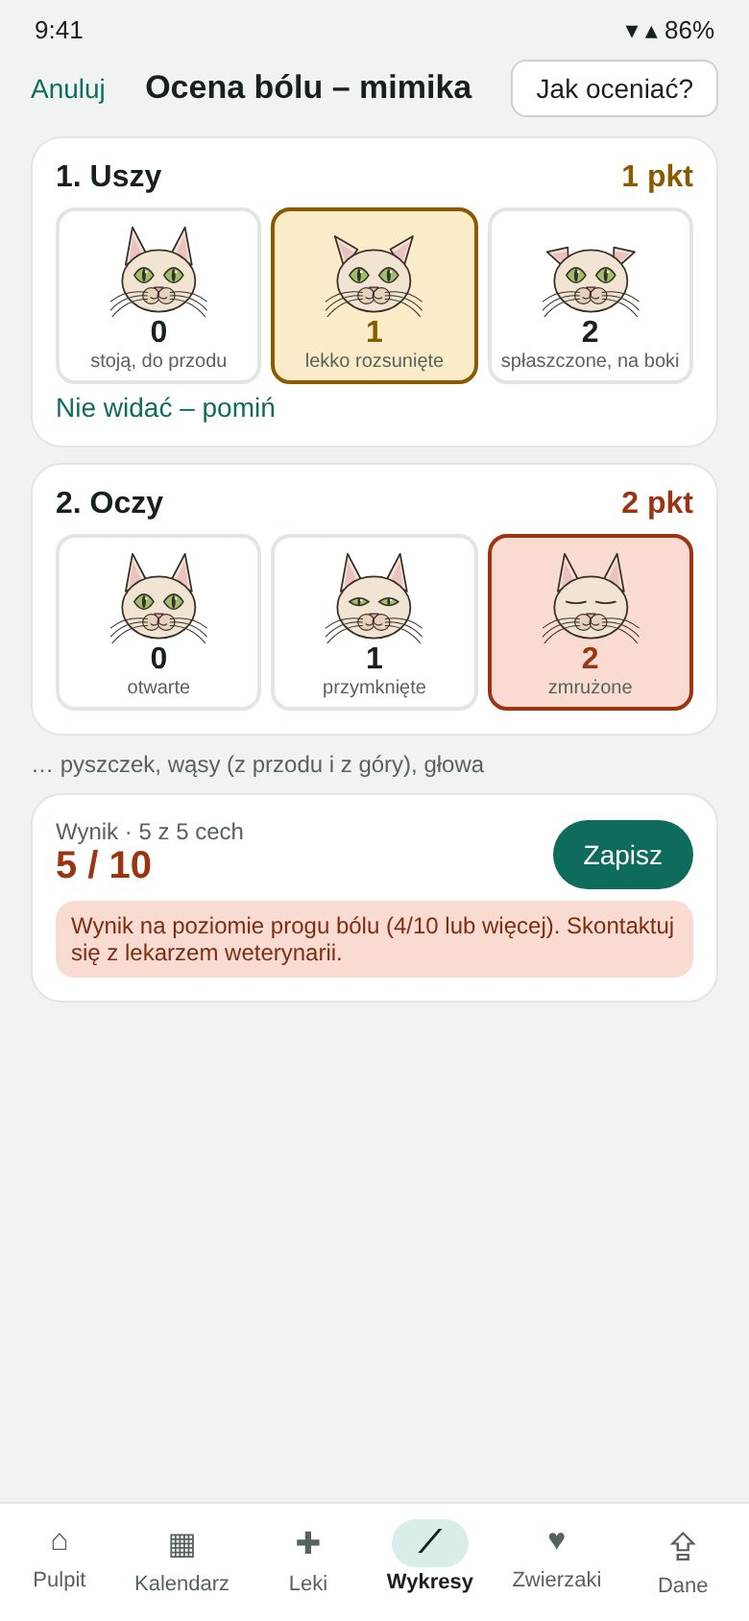
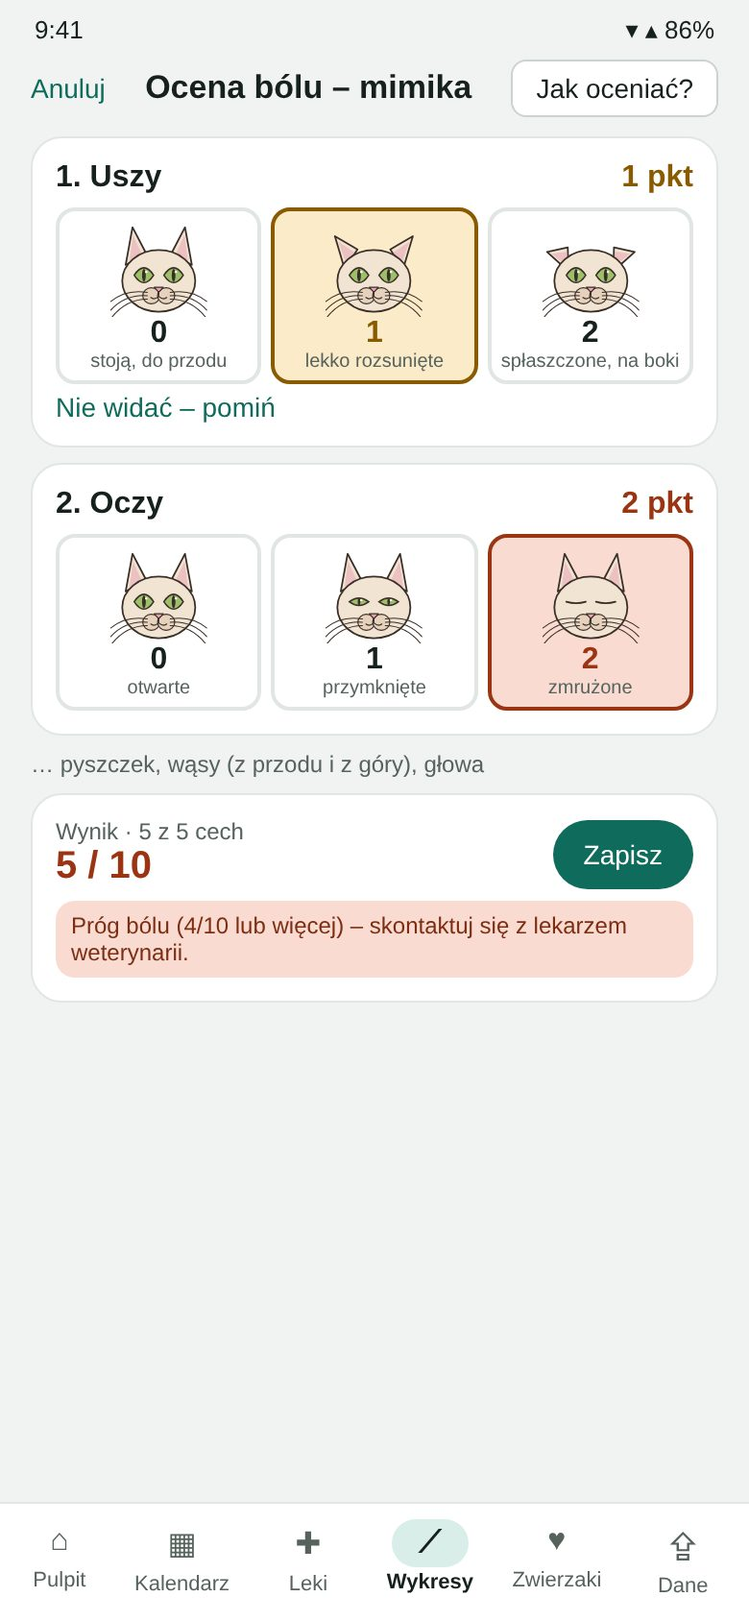
Zmiany 0.21.1
Claude-Session: https://claude.ai/code/session_01Lz8gJxS2uki7r8oLhaRRUg

Changed region(s): [[0.0923, 0.5545, 0.8923, 0.6161]]

diff --git a/zmiany/index.html b/zmiany/index.html
@@ -8,5 +8,5 @@ main{max-width:760px;margin:0 auto;padding:clamp(28px,5vw,56px) max(5vw,18px) 64
 h1{font-size:clamp(30px,5vw,40px);line-height:1.1;margin:8px 0 18px}.ver{border-top:1px solid var(--line);padding:14px 0 4px}
 .ver h2{font-size:20px;margin:0 0 4px}.ver h2 span{font-size:15px;font-weight:400;color:var(--mut);margin-left:8px}ul{padding-left:22px;margin:6px 0}li{margin:4px 0}</style></head><body><main>
 <p><a href="../">← KitkuApp</a></p><h1>Historia zmian</h1>
-<section class="ver"><h2>0.21.0 <span>25.11.2026</span></h2><ul><li>Nowy pomiar domowy dla kotów: „Ocena bólu (mimika)” według Feline Grimace Scale – 5 cech pyszczka (uszy, oczy, pyszczek, wąsy, głowa) z ilustracjami 0 / 1 / 2.</li><li>Cechę, której nie widać, można pominąć (najwyżej 2) – wynik przeliczy się do skali 0–10.</li><li>Wynik trafia na wykres; od 4/10 jest poza normą, a aplikacja przypomina o kontakcie z lekarzem weterynarii.</li></ul></section><section class="ver"><h2>0.20.2 <span>25.11.2026</span></h2><ul><li>O aplikacji: pod linkiem do listy zmian jest link do podręcznika użytkownika.</li></ul></section><section class="ver"><h2>0.20.1 <span>24.11.2026</span></h2><ul><li>Wykresy: „Dodaj pomiar” jest teraz nad listą wcześniejszych pomiarów.</li><li>Pomiary domowe: usunięte ciśnienie rozkurczowe (u kotów ocenia się głównie skurczowe). Wartości rozkurczowe z wypisów nadal są na wykresach.</li></ul></section><section class="ver"><h2>0.20.0 <span>24.11.2026</span></h2><ul><li>Wykresy na osi czasu: punkty w odstępach zgodnych z datami, na osi lata (po przybliżeniu półrocza i kwartały).</li><li>Domyślnie widać ostatnie 3 lata; gdy pomiary obejmują krótszy okres – wszystkie.</li><li>Przeciągnięcie wykresu w lewo lub w prawo przesuwa widok w czasie; strzałki ‹ › w rogach pokazują, że są starsze lub nowsze pomiary.</li><li>Suwak pod wykresem przybliża od „wszystko” do 3 miesięcy; „↺ Domyślny widok” wraca do 3 lat.</li></ul></section><section class="ver"><h2>0.19.2 <span>24.11.2026</span></h2><ul><li>Wykresy: parametry morfologii w kolejności jak na wydruku z analizatora (WBC, BAS%, BAS, NEU%, NEU … PLT, MPV, PDW, PCT), pozostałe pod nimi alfabetycznie.</li></ul></section><section class="ver"><h2>0.19.1 <span>24.11.2026</span></h2><ul><li>Wykresy: ten sam wynik zapisany w dwóch dokumentach z jednego dnia pokazuje się raz (bez nakładających się etykiet).</li><li>Parametry podawane w % (np. NEU %) mają własny wykres, osobno od wartości bezwzględnych.</li><li>Lista parametrów: bez pustych dopisków „też:”.</li></ul></section><section class="ver"><h2>0.19.0 <span>24.11.2026</span></h2><ul><li>Wykresy: wykres od razu pod wyborem zwierzaka. Dotknięcie nazwy parametru otwiera wybór, strzałki ‹ › przechodzą do sąsiednich parametrów z tej samej grupy.</li><li>Pod wykresem skróty: parametry poza normą w ostatnich wynikach i przypięte gwiazdką.</li><li>„Wszystkie parametry” – lista z wyszukiwarką (także po innych nazwach, np. „hematokryt”), pogrupowana jak badania, z ostatnią wartością.</li><li>Ten sam parametr z różnych laboratoriów (np. HCT i Hematokryt, PLT i Płytki krwi) oraz nazwy rozbite przy odczycie PDF trafiają na jeden wykres.</li></ul></section><section class="ver"><h2>0.18.2 <span>24.11.2026</span></h2><ul><li>Profil: „Archiwum diet” i „Historia fizjoterapii” przeniesione pod karty – przycisk dodawania w nagłówku nie łamie się już na wąskich ekranach.</li></ul></section><section class="ver"><h2>0.18.1 <span>23.11.2026</span></h2><ul><li>Poprawka: po przesunięciu profilu na innego zwierzaka „Terminy badań” pokazywały daty poprzednio oglądanego zwierzaka.</li></ul></section><section class="ver"><h2>0.18.0 <span>23.11.2026</span></h2><ul><li>Wizyta z datą w przyszłości wymaga tylko tytułu. Gdy termin minie, jest wyróżniona w historii i na Pulpicie z prośbą o wyniki – „Uzupełnij” albo „Dodaj skan” (skan z tego dnia uzupełni ten wpis).</li><li>Dieta: w profilu tylko trwające diety, zakończone w „Archiwum diet”. „Zakończ dietę” od razu przenosi ją do archiwum.</li><li>Fizjoterapia przeniesiona z kategorii badań do profilu zwierzaka – sekcja pod dietą, z własną historią.</li><li>Przesunięcie profilu w lewo lub w prawo przechodzi do kolejnego zwierzaka.</li><li>Kategorie badań przy dodawaniu wpisu pogrupowane (krew i mocz, obrazowe, wizyty) i zajmują mniej miejsca.</li></ul></section><section class="ver"><h2>0.17.0 <span>23.11.2026</span></h2><ul><li>Ręczny wpis: osobne pola Opis i Zalecenia (zalecenia tworzą przypomnienia), wyniki wpisywane wierszami – z podpowiedzią parametru, jednostką, normą i strzałką poza normą. Badanie z wynikami wymaga co najmniej jednego wyniku. Wyniki trafiają na wykresy i do stanu zdrowia.</li><li>Nowa kategoria: Fizjoterapia (opis zabiegów i zalecenia).</li><li>Stan zdrowia: dotknięcie pozycji otwiera badanie, przy wartościach poza normą widać normę, a zalecenia typu „kontrola za 12 miesięcy” nie są liczone jako problem.</li><li>Wybór zwierzaka ze zdjęciem i kolorem zwierzaka w tle (kalendarz, leki, wykresy, wpisy).</li><li>Leki: sekcja „Historia diet” nad historią leczenia.</li></ul></section><section class="ver"><h2>0.16.0 <span>23.11.2026</span></h2><ul><li>Profil zwierzaka: sekcja „Dieta” (nazwa, od–do lub na stałe, reakcja na dietę). Po zakończeniu dieta przechodzi do historii.</li><li>Wyszukiwanie w historii zwierzaka – w tytułach i opisach wpisów, na bieżąco podczas pisania.</li><li>Historia podzielona na roczniki – kreska z rokiem na granicy lat.</li><li>Po powrocie z otwartego wpisu profil wraca w to samo miejsce historii.</li></ul></section><section class="ver"><h2>0.15.2 <span>23.11.2026</span></h2><ul><li>Lepszy import historii wizyt: opis badania klinicznego zachowuje podział na punkty, zawinięte zdania są sklejane, a wizyty z samymi załącznikami są pomijane.</li><li>Poprawnie odczytywane wyniki, w których wartość jest sklejona z nazwą parametru (np. SAA), wyniki „w toku” są pomijane, a „Wartość” dostaje nazwę badania.</li><li>Interpretacja wyniku przerwana podziałem strony nie gubi ostatniego zdania.</li></ul></section><section class="ver"><h2>0.15.1 <span>23.11.2026</span></h2><ul><li>Nowa ikona aplikacji.</li><li>Zakładka „Dane i ustawienia” – czytelniej rozdzielone sekcje przywracania kopii i wyglądu.</li></ul></section><section class="ver"><h2>0.15.0 <span>22.11.2026</span></h2><ul><li>Normy badania moczu dla kotów i psów, gdy laboratorium ich nie podało: ciężar właściwy, pH, stosunek białko/kreatynina (z rozróżnieniem wartości granicznej i białkomoczu), erytrocyty i leukocyty w osadzie.</li><li>Wyniki opisowe (glukoza, ketony, krew, bilirubina, bakterie, wałeczki, nabłonki, liczne kryształy) oznaczane jako nieprawidłowe, z normą słowną obok. Białko z paska u kota – tylko informacyjnie.</li><li>Nieprawidłowe wyniki moczu trafiają do podsumowania stanu zdrowia.</li></ul></section><section class="ver"><h2>0.14.0 <span>22.11.2026</span></h2><ul><li>Ciemny motyw: przełącznik w zakładce Dane (sekcja „Wygląd”). Domyślnie aplikacja dopasowuje się do ustawień telefonu.</li></ul></section><section class="ver"><h2>0.13.1 <span>22.11.2026</span></h2><ul><li>Lepszy import zeskanowanych kart wizyt: rozpoznawane sekcje „Opis badania”, „Zabiegi” i „Zastosowane leki” mimo ikon przy nagłówkach, a także data wizyty zaznaczona zakreślaczem.</li><li>Tomografia wpisana w zabiegach oznacza wpis kategorią TK.</li></ul></section><section class="ver"><h2>0.13.0 <span>22.11.2026</span></h2><ul><li>Profil zwierzaka: nowa sekcja „Stan zdrowia” – podsumowanie tworzone automatycznie z ostatnich wyników każdego badania (wartości poza normą, wnioski z badań obrazowych, na końcu badania w normie). Odświeża się samo po dodaniu nowych wyników.</li><li>Pod podsumowaniem pole „Moje notatki” na własne uwagi o zdrowiu.</li></ul></section><section class="ver"><h2>0.12.5 <span>22.11.2026</span></h2><ul><li>Import opisów tomografii komputerowej: rozpoznawane imię zwierzęcia, data i tytuł badania, lekarz opisujący i kierujący, a do wpisu trafia pełny opis i wnioski (bez stopek i stron z obrazami).</li><li>Nowa kategoria badań: Tomografia komputerowa.</li></ul></section><section class="ver"><h2>0.12.4 <span>22.11.2026</span></h2><ul><li>Kalendarz: dotknięcie nazwy miesiąca otwiera wybór miesiąca i roku.</li><li>Kalendarz: usunięta karta „Terminy badań” – terminy są w profilach zwierzaków, a w widoku miesiąca nadal widać je jako kółka.</li><li>Po powrocie z otwartego wpisu kalendarz pokazuje ten sam miesiąc, dzień i filtr.</li></ul></section><section class="ver"><h2>0.12.3 <span>22.11.2026</span></h2><ul><li>Leki podawane co kilka dni: w oknie leku pole „Podawaj co … dni”, na liście informacja o następnej dawce, a zapasy liczą zużycie tylko w dni podania.</li></ul></section><section class="ver"><h2>0.12.2 <span>22.11.2026</span></h2><ul><li>Sekcja Zapasy na karcie Leki pokazuje wszystkie monitorowane leki, niezależnie od wybranego zwierzaka, razem z informacją, kto je dostaje.</li></ul></section><section class="ver"><h2>0.12.1 <span>22.11.2026</span></h2><ul><li>W przypomnieniu jednorazowym termin można ustawić wpisując „Za … miesięcy” – data przelicza się sama.</li></ul></section><section class="ver"><h2>0.12.0 <span>22.11.2026</span></h2><ul><li>Zapasy leków: zaznacz „Monitoruj zużycie”, wpisz posiadaną ilość, a karta Leki pokaże, na ile dni wystarczy zapas. Zużycie liczone jest ze wszystkich zwierzaków, które dostają ten sam lek.</li><li>Przypomnienie na Pulpicie i powiadomienie, gdy zapas leku kończy się w ciągu 7 dni.</li><li>Dawka wpisywana jako liczba z jednostką (szt, ml, g).</li><li>Nowy lek można dodać od razu kilku zwierzakom i o kilku godzinach.</li><li>Podpowiedzi nazw leków już używanych (także przy literówce) – z dawką i jednostką.</li></ul></section><section class="ver"><h2>0.11.6 <span>20.11.2026</span></h2><ul><li>Opisy badań USG importowane w całości, w akapitach, z kategorią „USG jamy brzusznej”.</li><li>Poprawione rozpoznawanie imion i słów w wypisach, w których PDF rozdzielał wyrazy (np. „Zw ierzę”).</li></ul></section><section class="ver"><h2>0.11.5 <span>20.11.2026</span></h2><ul><li>Uwaga o konsultacji częstotliwości badań z weterynarzem przeniesiona nad przypomnienia jednorazowe.</li><li>W zakładce Dane przy numerze wersji link do listy zmian.</li></ul></section><section class="ver"><h2>0.11.4 <span>20.11.2026</span></h2><ul><li>Przypomnienie o USG jamy brzusznej domyślnie co 12 miesięcy (wcześniej 6).</li><li>W ustawieniach przypomnień uwaga, że częstotliwość badań warto ustalić z lekarzem weterynarii.</li></ul></section><section class="ver"><h2>0.11.3 <span>20.11.2026</span></h2><ul><li>Przypomnienie o echu serca domyślnie co 12 miesięcy (wcześniej 24), zgodnie z zaleceniem corocznej kontroli kotów z ras predysponowanych i z łagodną kardiomiopatią.</li></ul></section><section class="ver"><h2>0.11.2 <span>19.11.2026</span></h2><ul><li>Przy dodawaniu wpisu i imporcie nie trzeba już wybierać rodzaju (wizyta, badanie, telefon, pomiar domowy) — aplikacja ustawia go sama.</li></ul></section><section class="ver"><h2>0.11.1 <span>19.11.2026</span></h2><ul><li>Profil zwierzaka: dotknięcie badania w „Terminach badań” pokazuje historię tylko z tym badaniem.</li></ul></section><section class="ver"><h2>0.11.0 <span>19.11.2026</span></h2><ul><li>Import wypisów z gabinetu kardiologicznego: cały wynik echa serca zapisany w opisie wizyty, wywiad, waga, ciśnienie i zalecenia (np. kontrolne echo po 3–4 miesiącach).</li><li>Imię z wypisu dopasowywane mimo drobnej różnicy w pisowni (np. Papaya ↔ Papaja).</li></ul></section><section class="ver"><h2>0.10.6 <span>19.11.2026</span></h2><ul><li>Numer wersji rośnie automatycznie z każdym wydaniem (porządek przy publikacji w Google Play).</li></ul></section><section class="ver"><h2>0.10.5 <span>19.11.2026</span></h2><ul><li>Polityka prywatności na stronie aplikacji (GitHub Pages), link w zakładce Dane.</li></ul></section><section class="ver"><h2>0.10.4 <span>18.11.2026</span></h2><ul><li>Import kilku dużych kartotek naraz bez zawieszania aplikacji: zapis w tle, pliki czytane po kolei, lista wizyt pokazywana porcjami, przycisk usuwania duplikatów z listy.</li></ul></section><section class="ver"><h2>0.10.3 <span>17.11.2026</span></h2><ul><li>Edycja i usuwanie przypomnień: zmiana nazwy i okresu, usuwanie własnych i domyślnych (z możliwością przywrócenia), edycja przypomnień jednorazowych.</li></ul></section><section class="ver"><h2>0.10.2 <span>17.11.2026</span></h2><ul><li>Zwierzaki na Pulpicie i w zakładce Zwierzaki ułożone od tych, które najbardziej potrzebują badań.</li><li>Terminy badań w profilu od zaległych do najodleglejszych.</li><li>Leki pogrupowane według godziny podawania.</li></ul></section><section class="ver"><h2>0.10.1 <span>17.11.2026</span></h2><ul><li>Nowe przypomnienie: pomiar ciśnienia co 6 miesięcy.</li></ul></section><section class="ver"><h2>0.10.0 <span>17.11.2026</span></h2><ul><li>Przygotowanie do Google Play: nowy identyfikator aplikacji, Android 16, polityka prywatności.</li></ul></section><section class="ver"><h2>0.9.2 <span>17.11.2026</span></h2><ul><li>Przypomnienia jednorazowe nie mnożą się po imporcie starszych kartotek; zamknięte można ukryć lub usunąć.</li></ul></section><section class="ver"><h2>0.9.1 <span>17.11.2026</span></h2><ul><li>Ręczna poprawa zaimportowanych wyników: nazwa, wartość, jednostka, norma, dodawanie i usuwanie pozycji.</li><li>Poprawny tytuł badania, gdy tabela zaczyna się na następnej stronie wypisu.</li></ul></section><section class="ver"><h2>0.9.0 <span>17.11.2026</span></h2><ul><li>Psy obok kotów, z typowymi wartościami tętna, oddechów i ciśnienia dla psa.</li><li>Przypomnienia jednorazowe z zaleceń w wypisie (np. „powtórzyć USG za miesiąc”) i po wynikach poza normą.</li></ul></section><section class="ver"><h2>0.8.0 <span>17.11.2026</span></h2><ul><li>Zdjęcia zwierząt z przesuwaniem i kadrowaniem.</li><li>Ciśnienie skurczowe, rozkurczowe i tętno w pomiarach domowych i z wypisów.</li></ul></section><section class="ver"><h2>0.7 <span>17.11.2026</span></h2><ul><li>Nowa zakładka Leki: godzina podawania, dawka, uwagi, daty oraz historia leczenia.</li><li>Czytelniejszy dolny pasek nawigacji.</li></ul></section><section class="ver"><h2>0.6 <span>17.11.2026</span></h2><ul><li>Nowa nazwa: KitkuApp, przycisk „Postaw kotkom karmę”.</li><li>Przypomnienie o echu serca (co 24 miesiące) i własne przypomnienia.</li></ul></section><section class="ver"><h2>0.5 <span>17.11.2026</span></h2><ul><li>Odczyt skanów PDF i zdjęć wypisów (rozpoznawanie tekstu w telefonie).</li><li>Pomiary domowe: oddechy w spoczynku, biegunka, wymioty; zwijane kategorie wykresów.</li><li>Zakładka Dane z importem i kopią zapasową, dzwonek do ustawień przypomnień, do 6 zwierzaków widocznych bez przewijania.</li></ul></section><section class="ver"><h2>0.4 <span>16.11.2026</span></h2><ul><li>Import zbiorczych wypisów z wieloma wizytami w jednym pliku.</li><li>Jednostki wyników przeliczane na wspólne, dokładniejszy odczyt tabel z wynikami.</li></ul></section><section class="ver"><h2>0.3 <span>16.11.2026</span></h2><ul><li>Pierwsza wersja: kalendarz badań z przypomnieniami, profile kotów z wiekiem, import wypisów PDF, wykresy wyników, kopia zapasowa na Dysku Google.</li></ul></section>
+<section class="ver"><h2>0.21.1 <span>25.11.2026</span></h2><ul><li>Ocena bólu: ekran mieści się nad paskiem nawigacji telefonu – przycisk „Zapisz” jest zawsze dostępny; krótszy komunikat o progu bólu.</li></ul></section><section class="ver"><h2>0.21.0 <span>25.11.2026</span></h2><ul><li>Nowy pomiar domowy dla kotów: „Ocena bólu (mimika)” według Feline Grimace Scale – 5 cech pyszczka (uszy, oczy, pyszczek, wąsy, głowa) z ilustracjami 0 / 1 / 2.</li><li>Cechę, której nie widać, można pominąć (najwyżej 2) – wynik przeliczy się do skali 0–10.</li><li>Wynik trafia na wykres; od 4/10 jest poza normą, a aplikacja przypomina o kontakcie z lekarzem weterynarii.</li></ul></section><section class="ver"><h2>0.20.2 <span>25.11.2026</span></h2><ul><li>O aplikacji: pod linkiem do listy zmian jest link do podręcznika użytkownika.</li></ul></section><section class="ver"><h2>0.20.1 <span>24.11.2026</span></h2><ul><li>Wykresy: „Dodaj pomiar” jest teraz nad listą wcześniejszych pomiarów.</li><li>Pomiary domowe: usunięte ciśnienie rozkurczowe (u kotów ocenia się głównie skurczowe). Wartości rozkurczowe z wypisów nadal są na wykresach.</li></ul></section><section class="ver"><h2>0.20.0 <span>24.11.2026</span></h2><ul><li>Wykresy na osi czasu: punkty w odstępach zgodnych z datami, na osi lata (po przybliżeniu półrocza i kwartały).</li><li>Domyślnie widać ostatnie 3 lata; gdy pomiary obejmują krótszy okres – wszystkie.</li><li>Przeciągnięcie wykresu w lewo lub w prawo przesuwa widok w czasie; strzałki ‹ › w rogach pokazują, że są starsze lub nowsze pomiary.</li><li>Suwak pod wykresem przybliża od „wszystko” do 3 miesięcy; „↺ Domyślny widok” wraca do 3 lat.</li></ul></section><section class="ver"><h2>0.19.2 <span>24.11.2026</span></h2><ul><li>Wykresy: parametry morfologii w kolejności jak na wydruku z analizatora (WBC, BAS%, BAS, NEU%, NEU … PLT, MPV, PDW, PCT), pozostałe pod nimi alfabetycznie.</li></ul></section><section class="ver"><h2>0.19.1 <span>24.11.2026</span></h2><ul><li>Wykresy: ten sam wynik zapisany w dwóch dokumentach z jednego dnia pokazuje się raz (bez nakładających się etykiet).</li><li>Parametry podawane w % (np. NEU %) mają własny wykres, osobno od wartości bezwzględnych.</li><li>Lista parametrów: bez pustych dopisków „też:”.</li></ul></section><section class="ver"><h2>0.19.0 <span>24.11.2026</span></h2><ul><li>Wykresy: wykres od razu pod wyborem zwierzaka. Dotknięcie nazwy parametru otwiera wybór, strzałki ‹ › przechodzą do sąsiednich parametrów z tej samej grupy.</li><li>Pod wykresem skróty: parametry poza normą w ostatnich wynikach i przypięte gwiazdką.</li><li>„Wszystkie parametry” – lista z wyszukiwarką (także po innych nazwach, np. „hematokryt”), pogrupowana jak badania, z ostatnią wartością.</li><li>Ten sam parametr z różnych laboratoriów (np. HCT i Hematokryt, PLT i Płytki krwi) oraz nazwy rozbite przy odczycie PDF trafiają na jeden wykres.</li></ul></section><section class="ver"><h2>0.18.2 <span>24.11.2026</span></h2><ul><li>Profil: „Archiwum diet” i „Historia fizjoterapii” przeniesione pod karty – przycisk dodawania w nagłówku nie łamie się już na wąskich ekranach.</li></ul></section><section class="ver"><h2>0.18.1 <span>23.11.2026</span></h2><ul><li>Poprawka: po przesunięciu profilu na innego zwierzaka „Terminy badań” pokazywały daty poprzednio oglądanego zwierzaka.</li></ul></section><section class="ver"><h2>0.18.0 <span>23.11.2026</span></h2><ul><li>Wizyta z datą w przyszłości wymaga tylko tytułu. Gdy termin minie, jest wyróżniona w historii i na Pulpicie z prośbą o wyniki – „Uzupełnij” albo „Dodaj skan” (skan z tego dnia uzupełni ten wpis).</li><li>Dieta: w profilu tylko trwające diety, zakończone w „Archiwum diet”. „Zakończ dietę” od razu przenosi ją do archiwum.</li><li>Fizjoterapia przeniesiona z kategorii badań do profilu zwierzaka – sekcja pod dietą, z własną historią.</li><li>Przesunięcie profilu w lewo lub w prawo przechodzi do kolejnego zwierzaka.</li><li>Kategorie badań przy dodawaniu wpisu pogrupowane (krew i mocz, obrazowe, wizyty) i zajmują mniej miejsca.</li></ul></section><section class="ver"><h2>0.17.0 <span>23.11.2026</span></h2><ul><li>Ręczny wpis: osobne pola Opis i Zalecenia (zalecenia tworzą przypomnienia), wyniki wpisywane wierszami – z podpowiedzią parametru, jednostką, normą i strzałką poza normą. Badanie z wynikami wymaga co najmniej jednego wyniku. Wyniki trafiają na wykresy i do stanu zdrowia.</li><li>Nowa kategoria: Fizjoterapia (opis zabiegów i zalecenia).</li><li>Stan zdrowia: dotknięcie pozycji otwiera badanie, przy wartościach poza normą widać normę, a zalecenia typu „kontrola za 12 miesięcy” nie są liczone jako problem.</li><li>Wybór zwierzaka ze zdjęciem i kolorem zwierzaka w tle (kalendarz, leki, wykresy, wpisy).</li><li>Leki: sekcja „Historia diet” nad historią leczenia.</li></ul></section><section class="ver"><h2>0.16.0 <span>23.11.2026</span></h2><ul><li>Profil zwierzaka: sekcja „Dieta” (nazwa, od–do lub na stałe, reakcja na dietę). Po zakończeniu dieta przechodzi do historii.</li><li>Wyszukiwanie w historii zwierzaka – w tytułach i opisach wpisów, na bieżąco podczas pisania.</li><li>Historia podzielona na roczniki – kreska z rokiem na granicy lat.</li><li>Po powrocie z otwartego wpisu profil wraca w to samo miejsce historii.</li></ul></section><section class="ver"><h2>0.15.2 <span>23.11.2026</span></h2><ul><li>Lepszy import historii wizyt: opis badania klinicznego zachowuje podział na punkty, zawinięte zdania są sklejane, a wizyty z samymi załącznikami są pomijane.</li><li>Poprawnie odczytywane wyniki, w których wartość jest sklejona z nazwą parametru (np. SAA), wyniki „w toku” są pomijane, a „Wartość” dostaje nazwę badania.</li><li>Interpretacja wyniku przerwana podziałem strony nie gubi ostatniego zdania.</li></ul></section><section class="ver"><h2>0.15.1 <span>23.11.2026</span></h2><ul><li>Nowa ikona aplikacji.</li><li>Zakładka „Dane i ustawienia” – czytelniej rozdzielone sekcje przywracania kopii i wyglądu.</li></ul></section><section class="ver"><h2>0.15.0 <span>22.11.2026</span></h2><ul><li>Normy badania moczu dla kotów i psów, gdy laboratorium ich nie podało: ciężar właściwy, pH, stosunek białko/kreatynina (z rozróżnieniem wartości granicznej i białkomoczu), erytrocyty i leukocyty w osadzie.</li><li>Wyniki opisowe (glukoza, ketony, krew, bilirubina, bakterie, wałeczki, nabłonki, liczne kryształy) oznaczane jako nieprawidłowe, z normą słowną obok. Białko z paska u kota – tylko informacyjnie.</li><li>Nieprawidłowe wyniki moczu trafiają do podsumowania stanu zdrowia.</li></ul></section><section class="ver"><h2>0.14.0 <span>22.11.2026</span></h2><ul><li>Ciemny motyw: przełącznik w zakładce Dane (sekcja „Wygląd”). Domyślnie aplikacja dopasowuje się do ustawień telefonu.</li></ul></section><section class="ver"><h2>0.13.1 <span>22.11.2026</span></h2><ul><li>Lepszy import zeskanowanych kart wizyt: rozpoznawane sekcje „Opis badania”, „Zabiegi” i „Zastosowane leki” mimo ikon przy nagłówkach, a także data wizyty zaznaczona zakreślaczem.</li><li>Tomografia wpisana w zabiegach oznacza wpis kategorią TK.</li></ul></section><section class="ver"><h2>0.13.0 <span>22.11.2026</span></h2><ul><li>Profil zwierzaka: nowa sekcja „Stan zdrowia” – podsumowanie tworzone automatycznie z ostatnich wyników każdego badania (wartości poza normą, wnioski z badań obrazowych, na końcu badania w normie). Odświeża się samo po dodaniu nowych wyników.</li><li>Pod podsumowaniem pole „Moje notatki” na własne uwagi o zdrowiu.</li></ul></section><section class="ver"><h2>0.12.5 <span>22.11.2026</span></h2><ul><li>Import opisów tomografii komputerowej: rozpoznawane imię zwierzęcia, data i tytuł badania, lekarz opisujący i kierujący, a do wpisu trafia pełny opis i wnioski (bez stopek i stron z obrazami).</li><li>Nowa kategoria badań: Tomografia komputerowa.</li></ul></section><section class="ver"><h2>0.12.4 <span>22.11.2026</span></h2><ul><li>Kalendarz: dotknięcie nazwy miesiąca otwiera wybór miesiąca i roku.</li><li>Kalendarz: usunięta karta „Terminy badań” – terminy są w profilach zwierzaków, a w widoku miesiąca nadal widać je jako kółka.</li><li>Po powrocie z otwartego wpisu kalendarz pokazuje ten sam miesiąc, dzień i filtr.</li></ul></section><section class="ver"><h2>0.12.3 <span>22.11.2026</span></h2><ul><li>Leki podawane co kilka dni: w oknie leku pole „Podawaj co … dni”, na liście informacja o następnej dawce, a zapasy liczą zużycie tylko w dni podania.</li></ul></section><section class="ver"><h2>0.12.2 <span>22.11.2026</span></h2><ul><li>Sekcja Zapasy na karcie Leki pokazuje wszystkie monitorowane leki, niezależnie od wybranego zwierzaka, razem z informacją, kto je dostaje.</li></ul></section><section class="ver"><h2>0.12.1 <span>22.11.2026</span></h2><ul><li>W przypomnieniu jednorazowym termin można ustawić wpisując „Za … miesięcy” – data przelicza się sama.</li></ul></section><section class="ver"><h2>0.12.0 <span>22.11.2026</span></h2><ul><li>Zapasy leków: zaznacz „Monitoruj zużycie”, wpisz posiadaną ilość, a karta Leki pokaże, na ile dni wystarczy zapas. Zużycie liczone jest ze wszystkich zwierzaków, które dostają ten sam lek.</li><li>Przypomnienie na Pulpicie i powiadomienie, gdy zapas leku kończy się w ciągu 7 dni.</li><li>Dawka wpisywana jako liczba z jednostką (szt, ml, g).</li><li>Nowy lek można dodać od razu kilku zwierzakom i o kilku godzinach.</li><li>Podpowiedzi nazw leków już używanych (także przy literówce) – z dawką i jednostką.</li></ul></section><section class="ver"><h2>0.11.6 <span>20.11.2026</span></h2><ul><li>Opisy badań USG importowane w całości, w akapitach, z kategorią „USG jamy brzusznej”.</li><li>Poprawione rozpoznawanie imion i słów w wypisach, w których PDF rozdzielał wyrazy (np. „Zw ierzę”).</li></ul></section><section class="ver"><h2>0.11.5 <span>20.11.2026</span></h2><ul><li>Uwaga o konsultacji częstotliwości badań z weterynarzem przeniesiona nad przypomnienia jednorazowe.</li><li>W zakładce Dane przy numerze wersji link do listy zmian.</li></ul></section><section class="ver"><h2>0.11.4 <span>20.11.2026</span></h2><ul><li>Przypomnienie o USG jamy brzusznej domyślnie co 12 miesięcy (wcześniej 6).</li><li>W ustawieniach przypomnień uwaga, że częstotliwość badań warto ustalić z lekarzem weterynarii.</li></ul></section><section class="ver"><h2>0.11.3 <span>20.11.2026</span></h2><ul><li>Przypomnienie o echu serca domyślnie co 12 miesięcy (wcześniej 24), zgodnie z zaleceniem corocznej kontroli kotów z ras predysponowanych i z łagodną kardiomiopatią.</li></ul></section><section class="ver"><h2>0.11.2 <span>19.11.2026</span></h2><ul><li>Przy dodawaniu wpisu i imporcie nie trzeba już wybierać rodzaju (wizyta, badanie, telefon, pomiar domowy) — aplikacja ustawia go sama.</li></ul></section><section class="ver"><h2>0.11.1 <span>19.11.2026</span></h2><ul><li>Profil zwierzaka: dotknięcie badania w „Terminach badań” pokazuje historię tylko z tym badaniem.</li></ul></section><section class="ver"><h2>0.11.0 <span>19.11.2026</span></h2><ul><li>Import wypisów z gabinetu kardiologicznego: cały wynik echa serca zapisany w opisie wizyty, wywiad, waga, ciśnienie i zalecenia (np. kontrolne echo po 3–4 miesiącach).</li><li>Imię z wypisu dopasowywane mimo drobnej różnicy w pisowni (np. Papaya ↔ Papaja).</li></ul></section><section class="ver"><h2>0.10.6 <span>19.11.2026</span></h2><ul><li>Numer wersji rośnie automatycznie z każdym wydaniem (porządek przy publikacji w Google Play).</li></ul></section><section class="ver"><h2>0.10.5 <span>19.11.2026</span></h2><ul><li>Polityka prywatności na stronie aplikacji (GitHub Pages), link w zakładce Dane.</li></ul></section><section class="ver"><h2>0.10.4 <span>18.11.2026</span></h2><ul><li>Import kilku dużych kartotek naraz bez zawieszania aplikacji: zapis w tle, pliki czytane po kolei, lista wizyt pokazywana porcjami, przycisk usuwania duplikatów z listy.</li></ul></section><section class="ver"><h2>0.10.3 <span>17.11.2026</span></h2><ul><li>Edycja i usuwanie przypomnień: zmiana nazwy i okresu, usuwanie własnych i domyślnych (z możliwością przywrócenia), edycja przypomnień jednorazowych.</li></ul></section><section class="ver"><h2>0.10.2 <span>17.11.2026</span></h2><ul><li>Zwierzaki na Pulpicie i w zakładce Zwierzaki ułożone od tych, które najbardziej potrzebują badań.</li><li>Terminy badań w profilu od zaległych do najodleglejszych.</li><li>Leki pogrupowane według godziny podawania.</li></ul></section><section class="ver"><h2>0.10.1 <span>17.11.2026</span></h2><ul><li>Nowe przypomnienie: pomiar ciśnienia co 6 miesięcy.</li></ul></section><section class="ver"><h2>0.10.0 <span>17.11.2026</span></h2><ul><li>Przygotowanie do Google Play: nowy identyfikator aplikacji, Android 16, polityka prywatności.</li></ul></section><section class="ver"><h2>0.9.2 <span>17.11.2026</span></h2><ul><li>Przypomnienia jednorazowe nie mnożą się po imporcie starszych kartotek; zamknięte można ukryć lub usunąć.</li></ul></section><section class="ver"><h2>0.9.1 <span>17.11.2026</span></h2><ul><li>Ręczna poprawa zaimportowanych wyników: nazwa, wartość, jednostka, norma, dodawanie i usuwanie pozycji.</li><li>Poprawny tytuł badania, gdy tabela zaczyna się na następnej stronie wypisu.</li></ul></section><section class="ver"><h2>0.9.0 <span>17.11.2026</span></h2><ul><li>Psy obok kotów, z typowymi wartościami tętna, oddechów i ciśnienia dla psa.</li><li>Przypomnienia jednorazowe z zaleceń w wypisie (np. „powtórzyć USG za miesiąc”) i po wynikach poza normą.</li></ul></section><section class="ver"><h2>0.8.0 <span>17.11.2026</span></h2><ul><li>Zdjęcia zwierząt z przesuwaniem i kadrowaniem.</li><li>Ciśnienie skurczowe, rozkurczowe i tętno w pomiarach domowych i z wypisów.</li></ul></section><section class="ver"><h2>0.7 <span>17.11.2026</span></h2><ul><li>Nowa zakładka Leki: godzina podawania, dawka, uwagi, daty oraz historia leczenia.</li><li>Czytelniejszy dolny pasek nawigacji.</li></ul></section><section class="ver"><h2>0.6 <span>17.11.2026</span></h2><ul><li>Nowa nazwa: KitkuApp, przycisk „Postaw kotkom karmę”.</li><li>Przypomnienie o echu serca (co 24 miesiące) i własne przypomnienia.</li></ul></section><section class="ver"><h2>0.5 <span>17.11.2026</span></h2><ul><li>Odczyt skanów PDF i zdjęć wypisów (rozpoznawanie tekstu w telefonie).</li><li>Pomiary domowe: oddechy w spoczynku, biegunka, wymioty; zwijane kategorie wykresów.</li><li>Zakładka Dane z importem i kopią zapasową, dzwonek do ustawień przypomnień, do 6 zwierzaków widocznych bez przewijania.</li></ul></section><section class="ver"><h2>0.4 <span>16.11.2026</span></h2><ul><li>Import zbiorczych wypisów z wieloma wizytami w jednym pliku.</li><li>Jednostki wyników przeliczane na wspólne, dokładniejszy odczyt tabel z wynikami.</li></ul></section><section class="ver"><h2>0.3 <span>16.11.2026</span></h2><ul><li>Pierwsza wersja: kalendarz badań z przypomnieniami, profile kotów z wiekiem, import wypisów PDF, wykresy wyników, kopia zapasowa na Dysku Google.</li></ul></section>
 </main></body></html>

diff --git a/index.html b/index.html
@@ -47,7 +47,7 @@ a{color:var(--acc)}.mut{color:var(--mut);font-size:15px}
 <div class="shots"><a href="img/01_pulpit-duzy.jpg"><img src="img/01_pulpit.jpg" alt="Pulpit" loading="lazy" width="540" height="960"></a><a href="img/02_zwierzaki-duzy.jpg"><img src="img/02_zwierzaki.jpg" alt="Lista zwierzaków" loading="lazy" width="540" height="960"></a><a href="img/03_profil-duzy.jpg"><img src="img/03_profil.jpg" alt="Profil – stan zdrowia i terminy" loading="lazy" width="540" height="960"></a><a href="img/04_opieka-duzy.jpg"><img src="img/04_opieka.jpg" alt="Profil – dieta, fizjoterapia i notatki" loading="lazy" width="540" height="960"></a><a href="img/05_wykresy-duzy.jpg"><img src="img/05_wykresy.jpg" alt="Wykresy wyników" loading="lazy" width="540" height="960"></a><a href="img/06_leki-duzy.jpg"><img src="img/06_leki.jpg" alt="Leki i zapasy" loading="lazy" width="540" height="960"></a><a href="img/07_kalendarz-duzy.jpg"><img src="img/07_kalendarz.jpg" alt="Kalendarz" loading="lazy" width="540" height="960"></a><a href="img/08_import-duzy.jpg"><img src="img/08_import.jpg" alt="Import wyników" loading="lazy" width="540" height="960"></a><a href="img/09_dane-duzy.jpg"><img src="img/09_dane.jpg" alt="Kopia zapasowa i wygląd" loading="lazy" width="540" height="960"></a></div>
 <p class="get"><a class="dl guide" href="podrecznik/">Podręcznik użytkownika</a><span>co można zrobić na każdym ekranie aplikacji</span></p>
 <h2>Co nowego</h2>
-<!--NOWE--><section class="ver"><h2>0.21.0 <span>25.11.2026</span></h2><ul><li>Nowy pomiar domowy dla kotów: „Ocena bólu (mimika)” według Feline Grimace Scale – 5 cech pyszczka (uszy, oczy, pyszczek, wąsy, głowa) z ilustracjami 0 / 1 / 2.</li><li>Cechę, której nie widać, można pominąć (najwyżej 2) – wynik przeliczy się do skali 0–10.</li><li>Wynik trafia na wykres; od 4/10 jest poza normą, a aplikacja przypomina o kontakcie z lekarzem weterynarii.</li></ul></section><p><a href="zmiany/">Pełna historia zmian</a></p><!--/NOWE-->
+<!--NOWE--><section class="ver"><h2>0.21.1 <span>25.11.2026</span></h2><ul><li>Ocena bólu: ekran mieści się nad paskiem nawigacji telefonu – przycisk „Zapisz” jest zawsze dostępny; krótszy komunikat o progu bólu.</li></ul></section><p><a href="zmiany/">Pełna historia zmian</a></p><!--/NOWE-->
 <p><a href="polityka-prywatnosci/">Polityka prywatności</a></p>
 <p>Aplikacja nie zastępuje porady lekarza weterynarii. Jej główny cel to pomoc właścicielom w pilnowaniu terminów badań i zebranie wszystkich wyników z różnych lecznic w jednym miejscu, na telefonie właściciela. Także po to, by pamiętać o wszystkim przy kolejnej wizycie u weterynarza. Powstała z myślą o moim stadzie, rozwijam ją po pracy. Jeśli pomogła Twoim kotom, postaw karmę moim (bo karma wraca) ;)</p>
 <p class="get"><a class="dl support" href="https://buycoffee.to/kitkuapp">Postaw kotkom karmę</a><span>wsparcie rozwoju aplikacji przez buycoffee.to</span></p>

diff --git a/tools/podrecznik/screens.py b/tools/podrecznik/screens.py
@@ -302,7 +302,7 @@ S.append(("ocena-bolu", "Ocena bólu (mimika)", "Pomiar domowy dla kotów: ocena
   <div style="display:flex;gap:5px;margin-top:6px">{_tile("oczy",0,"otwarte")}{_tile("oczy",1,"przymknięte")}{_tile("oczy",2,"zmrużone",True)}</div></div>
  <div class="mut sm" style="margin:8px 0">… pyszczek, wąsy (z przodu i z góry), głowa</div>
  <div class="card"{T(4)}><div class="row"><div class="grow"><div class="mut sm">Wynik · 5 z 5 cech</div><div class="b hi" style="font-size:20px">5 / 10</div></div><span class="btn">Zapisz</span></div>
-  <div style="background:#FADBD2;color:#7C2D12;border-radius:10px;padding:6px 8px;font-size:12px;margin-top:6px">Wynik na poziomie progu bólu (4/10 lub więcej). Skontaktuj się z lekarzem weterynarii.</div></div>
+  <div style="background:#FADBD2;color:#7C2D12;border-radius:10px;padding:6px 8px;font-size:12px;margin-top:6px">Próg bólu (4/10 lub więcej) – skontaktuj się z lekarzem weterynarii.</div></div>
 </div>''', "Wykresy"), [
  (1, "Krótka instrukcja: obserwuj kota w spokoju, gdy nie śpi, nie je i się nie myje; najłatwiej ocenić ze zdjęcia pyszczka z przodu."),
  (2, "Każda z 5 cech (uszy, oczy, pyszczek, wąsy, głowa) ma trzy kafelki z ilustracją: 0 – brak, 1 – umiarkowanie lub nie wiadomo, 2 – wyraźnie. Dotknij tego, który pasuje."),

diff --git a/CHANGELOG.md b/CHANGELOG.md
@@ -1,5 +1,8 @@
 # Historia zmian KitkuApp
 
+## 0.21.1 — 25.11.2026
+- Ocena bólu: ekran mieści się nad paskiem nawigacji telefonu – przycisk „Zapisz” jest zawsze dostępny; krótszy komunikat o progu bólu.
+
 ## 0.21.0 — 25.11.2026
 - Nowy pomiar domowy dla kotów: „Ocena bólu (mimika)” według Feline Grimace Scale – 5 cech pyszczka (uszy, oczy, pyszczek, wąsy, głowa) z ilustracjami 0 / 1 / 2.
 - Cechę, której nie widać, można pominąć (najwyżej 2) – wynik przeliczy się do skali 0–10.
